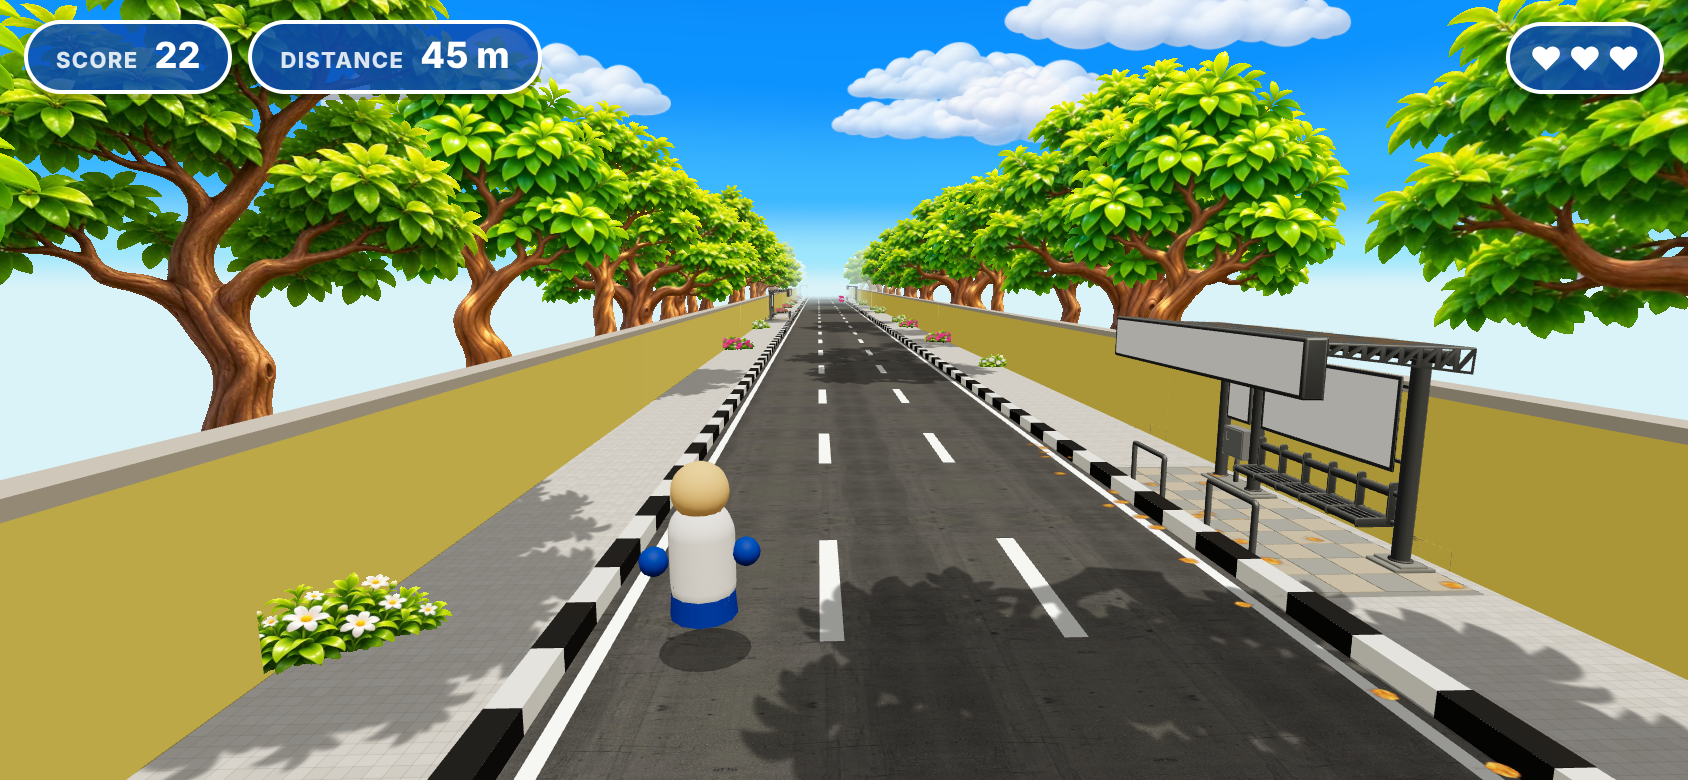
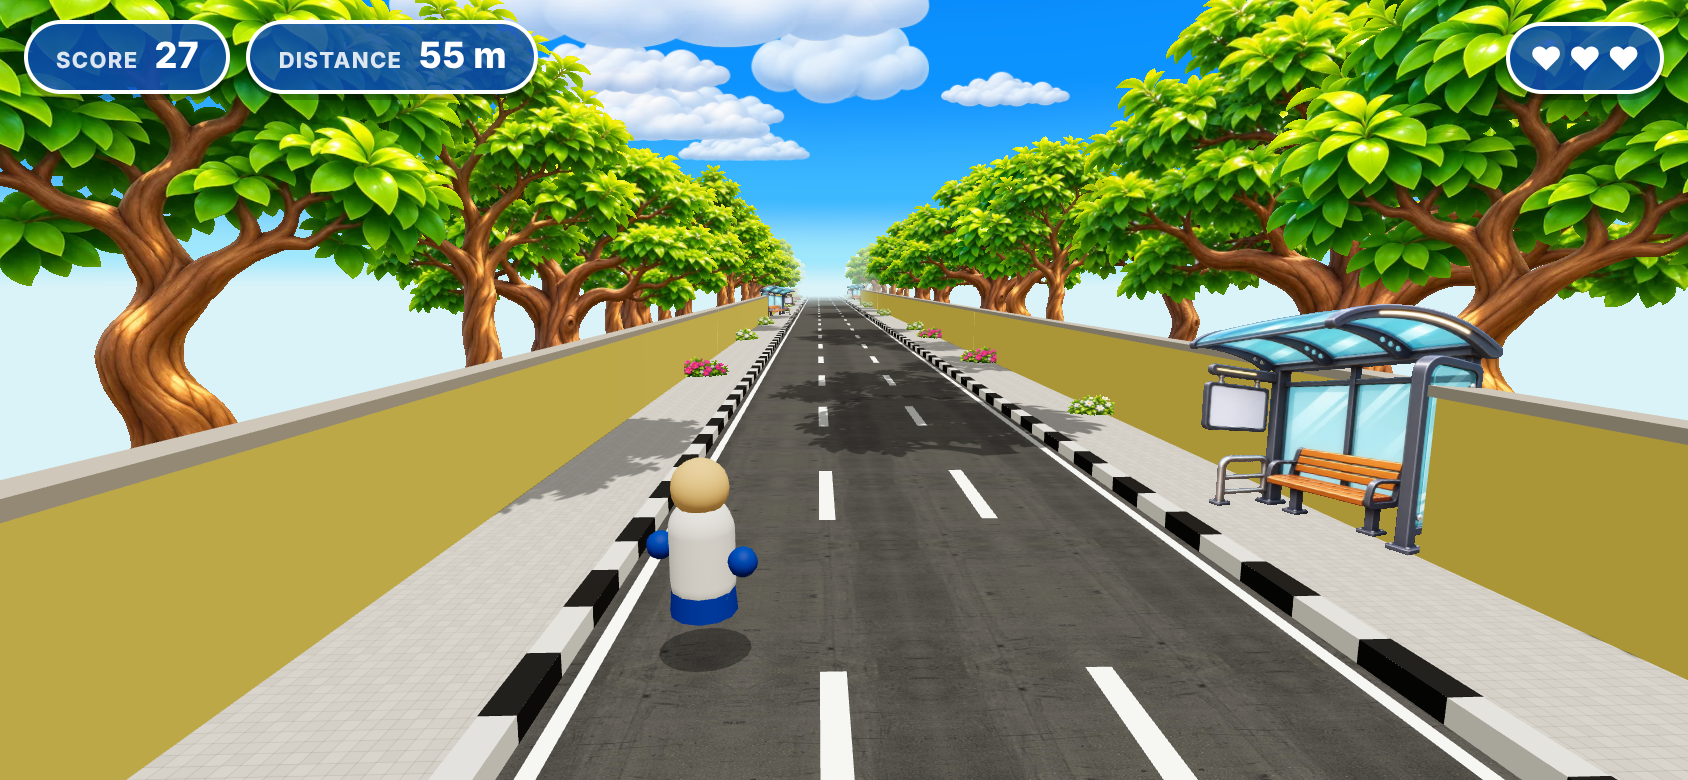
World: illustrated bus stand sprite replaces the 3D shelter
- assets/raw/props/bus-stand.png -> WebP billboard, mirrored on the left pavement
- game no longer loads the shelter GLB (kept in the pipeline for reference)

Claude-Session: https://claude.ai/code/session_015MHPvXtKwbps1DwJmjDf5T

diff --git a/public/js/assets.js b/public/js/assets.js
@@ -4,7 +4,7 @@ import { MeshoptDecoder } from 'three/addons/libs/meshopt_decoder.module.js';
 
 /**
  * Loads every runtime asset with one progress callback.
- * Returns { shelter, asphalt, shadows, clouds, trees: [{map, aspect}], leaf }.
+ * Returns { busStand, asphalt, shadows, clouds, trees, bushes, leaf } (sprites are {map, aspect}).
  */
 export async function loadAssets(onProgress = () => {}) {
   const manager = new THREE.LoadingManager();
@@ -49,13 +49,15 @@ export async function loadAssets(onProgress = () => {}) {
   const treeMeta = await loadJson('assets/textures/trees.json');
   const cloudMeta = await loadJson('assets/textures/clouds.json');
   const bushMeta = await loadJson('assets/textures/bushes.json');
+  const propMeta = await loadJson('assets/textures/props.json');
 
-  const [shelterGltf, asphalt, shadows, leaf] = await Promise.all([
-    loadGltf('assets/models/bus-shelter.glb'),
+  const [asphalt, shadows, leaf, busStandMap] = await Promise.all([
     loadTex('assets/textures/asphalt.webp', { repeat: true }),
     loadTex('assets/textures/tree-shadows.webp', { srgb: false, repeat: true }),
     loadTex('assets/textures/leaf.webp'),
+    loadTex('assets/textures/bus-stand.webp'),
   ]);
+  const busStand = { map: busStandMap, aspect: propMeta['bus-stand'].aspect };
   const treeFiles = [
     ['tree-1', 'assets/textures/tree-1.webp'],
     ['tree-2', 'assets/textures/tree-2.webp'],
@@ -86,17 +88,8 @@ export async function loadAssets(onProgress = () => {}) {
     aspect: cloudMeta[key].aspect,
   })));
 
-  const shelter = shelterGltf.scene;
-  shelter.traverse((o) => {
-    if (o.isMesh) {
-      o.frustumCulled = true;
-      o.castShadow = false;
-      o.receiveShadow = false;
-    }
-  });
-
   return {
-    shelter,
+    busStand,
     asphalt,
     shadows,
     leaf,

diff --git a/public/js/world.js b/public/js/world.js
@@ -35,6 +35,8 @@ export class World {
       material: new THREE.MeshBasicMaterial({ map: b.map, alphaTest: 0.5, side: THREE.DoubleSide, fog: true, toneMapped: false }),
       aspect: b.aspect,
     }));
+    this.busStandMaterial = new THREE.MeshBasicMaterial({ map: assets.busStand.map, alphaTest: 0.5, side: THREE.DoubleSide, fog: true, toneMapped: false });
+    this.busStandAspect = assets.busStand.aspect;
     this.treeGeometry = new THREE.PlaneGeometry(1, 1).translate(0, 0.5, 0);
 
     this.chunks = [];
@@ -205,15 +207,17 @@ export class World {
       chunk.userData.trees.push(tree);
       chunk.add(tree);
     }
-    chunk.userData.billboards = [...chunk.userData.trees, ...chunk.userData.bushes];
+    chunk.userData.billboards = [...chunk.userData.trees, ...chunk.userData.bushes, chunk.userData.shelters.left, chunk.userData.shelters.right];
     return chunk;
   }
 
   _makeShelter(side) {
-    const shelter = this.assets.shelter.clone();
-    // Model: road along +x, front faces +z. Rotate so the front faces the road.
-    shelter.rotation.y = side < 0 ? Math.PI / 2 : -Math.PI / 2;
-    shelter.position.x = side * SHELTER_OFFSET_X;
+    // Illustrated bus stand on the pavement; mirrored on the left so the open
+    // side faces the road. Turned toward the camera each frame like the trees.
+    const shelter = this._makeBillboard(this.busStandMaterial);
+    const h = 3.2;
+    shelter.scale.set(side * h * this.busStandAspect, h, 1);
+    shelter.position.set(side * ((PAVEMENT.inner + PAVEMENT.outer) / 2 + 0.2), PAVEMENT.height, 0);
     return shelter;
   }
 
